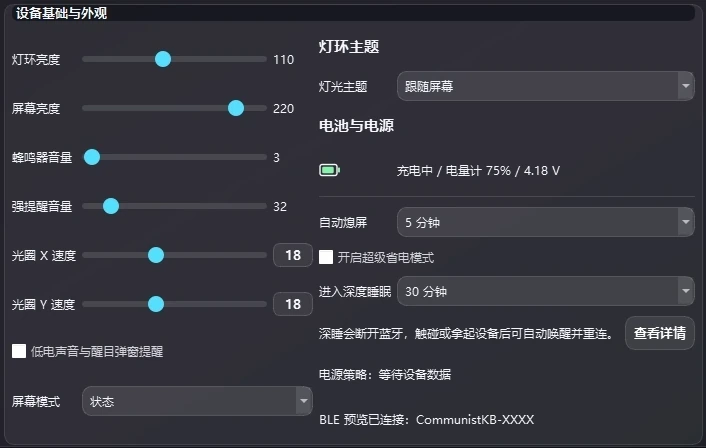
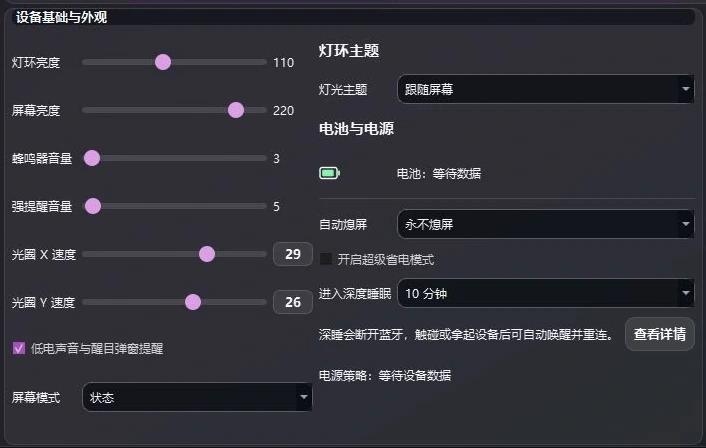
docs: refresh AutoClipboard interface screenshots

diff --git a/docs/en/software-interface-manual.md b/docs/en/software-interface-manual.md
@@ -3,11 +3,11 @@
 <!-- section:s001 -->
 # AutoClipboard software interface manual
 
-This manual explains the current AutoClipboard main window and the real **Device Settings / IMU Preview** window area by area. Every control is identified as software-only, hardware-changing, temporary, read-only, or firmware-related, so users can tell what will happen before they click it.
+This manual explains the current AutoClipboard main window, voice configuration, and **Device Settings / IMU Preview** window area by area. Every control is identified as software-only, hardware-changing, temporary, read-only, or firmware-related, so users can tell what will happen before they click it.
 
-The screenshots are real application screenshots. The Device Settings image was supplied from an actual connected-device session; the crops only add numbered outlines or isolate regions and do not redraw the UI.
+The screenshots are actual renders from the current AutoClipboard source, not generated UI mockups. To keep personal accounts, Agent sessions, Bluetooth suffixes, and serial-port details out of public documentation, the captures use isolated clean settings with real device services disabled. The crops only add numbered outlines or isolate regions; they do not redraw controls or pretend to validate physical hardware.
 
-> AutoClipboard version shown: `0.3.49`. Device values such as battery percentage, Profile name, COM port, Agent count, and Bluetooth suffix vary by computer and handle.
+> AutoClipboard version shown: `0.3.62`. Signed-out, BLE-disconnected, and empty-Agent states are intentional safe-demo states. Battery percentage, Profile name, COM port, Agent count, and Bluetooth suffix vary by computer and handle.
 
 <!-- section:s002 -->
 ## How to read the “changes” column
@@ -33,7 +33,7 @@ Changing a value in Device Settings is not always a harmless preview. Brightness
 | Number | Area | Primary role |
 | --- | --- | --- |
 | 1 | Device and Agent status | Shows Bluetooth, battery, Agent-to-ring synchronization, and the four quick actions. |
-| 2 | Clipboard and Typeless workspace | Receives text, automatically copies it, shows capture state, and exposes software settings. |
+| 2 | Clipboard and Typeless workspace | Receives text, automatically copies it, shows capture state, and exposes account, voice, and software settings. |
 | 3 | Agent dashboard | Summarizes Codex/Claude tasks and their current states. |
 
 The main window is mainly a software workspace. It does not rewrite handle configuration by itself. Hardware effects occur only when a specific action sends a signal or opens Device Settings.
@@ -48,15 +48,15 @@ The main window is mainly a software workspace. It does not rewrite handle confi
 | Item | What it does | Changes | Result |
 | --- | --- | --- | --- |
 | Title, subtitle, and `Waiting for input` | Identifies the application and current text-capture state. | **View only** | The status changes when Typeless capture starts, succeeds, retries, or fails. |
-| `BLE connected: CommunistKB-XXXX` | Shows the handle selected by the AutoClipboard BLE/GATT session. | **View only** | A complete `CommunistKB-` name plus the real four-character suffix confirms which handle the software is using. |
+| `BLE disconnected` / `BLE connected: CommunistKB-XXXX` | Shows whether the AutoClipboard BLE/GATT session is ready and which handle it selected. | **View only** | Once connected, the complete `CommunistKB-` name plus the real four-character suffix confirms which handle the software is using. |
 | Device and battery line | Summarizes Bluetooth keyboard readiness and estimated battery percentage. | **View only** | Helps distinguish a working HID keyboard link from the AutoClipboard device-data session. |
 | Agent and ring line | Shows the aggregated Agent state and the target ring animation. | **View only / software + hardware output** | For example, working tasks can produce the current-theme marquee effect on the handle. |
-| `Connect another host` | Opens the three-host instructions and then Windows Bluetooth settings. | **Software entry + hardware pairing** | The user must first select an `EMPTY` slot under `Settings > BLE Hosts` on the handle; it then opens a 120-second pairing window for the new computer. |
+| `Start pairing` | Opens pairing guidance and can continue to Windows Bluetooth settings. | **Software entry + hardware pairing** | Put the handle into `PAIR` first. For three-host pairing, select an `EMPTY` slot under `Settings > BLE Hosts` to open the 120-second pairing window. |
 | `Device Settings` | Opens the detailed configuration and IMU window. | **No change by opening it** | Hardware changes occur only after using controls inside that window. |
 | `Configure status light` | Installs or repairs the AutoClipboard portions of Codex `hooks.json` and Claude `settings.json`, with backup and confirmation. | **Software + hardware** | Agent lifecycle events can be collected locally and synchronized to the handle ring while AutoClipboard is running. |
 | `Test light effect` | Sends one selected Agent state to the handle. | **Temporary hardware session** | Tests idle breathing, working marquee, yellow attention/permission, red blocked, green completed, or off without changing the Agent task itself. |
 
-`Connect another host` does not invent or append the Bluetooth suffix. Pair the exact `CommunistKB-XXXX` name broadcast by the handle.
+`Start pairing` does not invent or append the Bluetooth suffix. Pair the exact `CommunistKB-XXXX` name broadcast by the handle.
 
 <!-- section:s005 -->
 ## 3. Main-window clipboard and Typeless area
@@ -72,6 +72,8 @@ The main window is mainly a software workspace. It does not rewrite handle confi
 | `Alt` / Typeless pulse panel | Shows whether the Right Alt trigger is idle, armed, captured, timed out, or unavailable. | **Software** | With global mode enabled on Windows, Right Alt arms one external Typeless capture. |
 | Character count | Shows the current editor length. | **View only** | Useful for confirming a long capture was complete. |
 | `Software Settings` | Opens local application preferences. | **Software**, except optional Agent completion output | See the detailed list below. |
+| `Account / Sign in` | Opens the ZKO account, sign-in, and entitlement entry point. | **Software / network entry** | Opening it does not upload audio or begin a purchase; later sign-in and entitlement actions remain explicit. |
+| `Voice` | Opens the free and premium voice configuration. | **Software**; the selected premium cloud tier also uses the network | Enables voice input, shortcut configuration, free system dictation, or an authorized premium cloud flow. |
 | `Clear` | Clears the editor content. | **Software** | Removes the visible buffer; it does not reset the handle or Bluetooth pairing. |
 
 <!-- section:s006 -->
@@ -87,6 +89,20 @@ The main window is mainly a software workspace. It does not rewrite handle confi
 | Model usage query | Stores the selected New API/CCSwitch query configuration locally and displays returned usage in the dashboard. Credentials remain on the current computer. |
 | Language | Selects Chinese or English UI. |
 | Software update | Downloads and installs a newer AutoClipboard application. This updates the desktop software, not handle firmware. |
+
+### Account and voice configuration
+
+<p align="center">
+  <img src="../assets/user-guide/autoclipboard-voice.webp" alt="AutoClipboard account and voice configuration" width="520">
+</p>
+
+| Item | What it does | Changes | Result |
+| --- | --- | --- | --- |
+| `Sign in / Account center` | Opens the ZKO account and entitlement flow. | **Software / network entry** | When signed out, it only shows the entry point; opening the window does not upload audio. |
+| `Enable voice input` | Enables or disables the voice shortcut. | **Software** | When disabled, the shortcut does not start voice input. |
+| Voice shortcut and “intercept shortcut keystroke” | Selects the trigger and whether that keystroke continues to the active application. | **Software** | Can prevent the trigger from producing an extra character or action in the target input field. |
+| Free tier | Requests Windows system dictation. | **Operating-system voice service** | Windows manages audio and dictated text; AutoClipboard does not record audio or read the system dictation transcript. |
+| Premium tier (activation code) | Uses activated account entitlement and short-lived cloud tokens. | **Software + network** | The cloud flow starts only after explicit selection and configuration; the free tier is never silently switched. |
 
 <!-- section:s007 -->
 ## 4. Agent dashboard

diff --git a/docs/zh-CN/software-interface-manual.md b/docs/zh-CN/software-interface-manual.md
@@ -3,11 +3,11 @@
 <!-- section:s001 -->
 # AutoClipboard 软件界面详细说明书
 
-这份说明书按照当前 AutoClipboard 的真实界面，逐块解释主窗口以及 **“设备设置 / IMU 预览”** 窗口。每一个控件都会明确说明：它是只查看状态、只修改电脑软件、会写入手柄硬件、只在本次连接中临时生效，还是涉及 Type-C 固件更新。
+这份说明书按照当前 AutoClipboard 的真实界面，逐块解释主窗口、语音配置以及 **“设备设置 / IMU 预览”** 窗口。每一个控件都会明确说明：它是只查看状态、只修改电脑软件、会写入手柄硬件、只在本次连接中临时生效，还是涉及 Type-C 固件更新。
 
-本文使用的都是实际软件截图。“设备设置”完整图来自真实设备连接界面；局部图只做编号标记和裁切，不会重绘、替换或伪造界面内容。
+本文使用的都是 AutoClipboard 当前源码实际渲染的截图，不是文生图界面。为避免把个人账户、Agent 会话、蓝牙后缀或串口信息写入公开文档，截图使用隔离的干净设置并禁用了真实设备服务；局部图只做编号标记和裁切，不会重绘控件或冒充实体设备验证。
 
-> 截图对应 AutoClipboard `0.3.49`。电量、Profile 名称、COM 端口、Agent 数量和蓝牙名称后缀会随用户设备变化。
+> 截图对应 AutoClipboard `0.3.62`。图中的未登录、BLE 未连接和空 Agent 状态是安全演示状态；实际电量、Profile 名称、COM 端口、Agent 数量和蓝牙名称后缀会随用户设备变化。
 
 <!-- section:s002 -->
 ## 先看懂“改动对象”标记
@@ -33,7 +33,7 @@
 | 编号 | 区域 | 主要作用 |
 | --- | --- | --- |
 | 1 | 设备与 Agent 状态区 | 显示蓝牙、电量、Agent 灯环同步情况，并提供 4 个快捷入口。 |
-| 2 | 剪贴板与 Typeless 工作区 | 接收文字、自动复制、显示捕获状态，并提供软件设置。 |
+| 2 | 剪贴板与 Typeless 工作区 | 接收文字、自动复制、显示捕获状态，并提供账户、语音和软件设置。 |
 | 3 | Agent 工作台 | 汇总 Codex、Claude 等任务及其当前状态。 |
 
 主窗口本身主要是电脑端工作区。仅仅打开主窗口不会重写手柄配置；只有点击会发送信号的功能，或者进入设备设置后调整硬件项目，才会影响手柄。
@@ -48,15 +48,15 @@
 | 界面项目 | 用途 | 改动对象 | 产生的效果 |
 | --- | --- | --- | --- |
 | 标题、副标题和“等待输入” | 标识当前软件，并显示文字捕获的工作状态。 | **仅查看** | Typeless 开始捕获、成功、重试或失败时，这里的状态会变化。 |
-| `BLE 蓝牙已连接：CommunistKB-XXXX` | 显示 AutoClipboard 当前 BLE/GATT 会话连接到哪一把手柄。 | **仅查看** | 完整的 `CommunistKB-` 加真实 4 位后缀，可用于确认软件连接的是正确实体设备。 |
+| `BLE 蓝牙未连接` / `BLE 蓝牙已连接：CommunistKB-XXXX` | 显示 AutoClipboard BLE/GATT 会话当前是否就绪，以及连接到哪一把手柄。 | **仅查看** | 连接后会显示完整的 `CommunistKB-` 加真实 4 位后缀，可用于确认软件连接的是正确实体设备。 |
 | 设备与电量提示 | 汇总蓝牙键盘是否可用，以及估算电量。 | **仅查看** | 帮助区分“系统已经能收到键盘宏”和“AutoClipboard 设备数据会话是否正常”。 |
 | Agent 与灯环提示 | 显示聚合后的 Agent 状态，以及准备发送到灯环的效果。 | **仅查看 / 软件 + 硬件输出** | 例如存在工作中任务时，手柄可以显示当前主题色跑马灯。 |
-| `连接其他主机` | 打开三主机槽位说明，并可继续进入 Windows 蓝牙设置。 | **软件入口 + 硬件配对** | 必须先在手柄 `Settings > BLE Hosts` 中选择 `EMPTY` 槽位，开启 120 秒配对窗口，新电脑才能发现手柄。 |
+| `开始配对` | 打开配对说明，并可继续进入 Windows 蓝牙设置。 | **软件入口 + 硬件配对** | 先让手柄进入 `PAIR` 状态；使用三主机功能时，应在 `Settings > BLE Hosts` 中选择 `EMPTY` 槽位并开启 120 秒配对窗口。 |
 | `设备设置` | 打开下文的完整设备配置与 IMU 窗口。 | **仅打开不修改** | 真正的硬件改动发生在设备设置窗口内部。 |
 | `配置状态灯` | 安装或修复 Codex `hooks.json` 与 Claude `settings.json` 中属于 AutoClipboard 的 Hook；执行前会提示并备份。 | **软件 + 硬件** | AutoClipboard 运行时可收集 Agent 生命周期，并把状态同步到手柄灯环。 |
 | `测试灯效` | 向手柄临时发送一个选定的 Agent 状态。 | **硬件临时会话** | 可分别测试主题色慢呼吸、主题色跑马灯、黄色提醒、黄色快闪、红色告警、绿色完成呼吸和关闭；不会改变真实 Agent 任务。 |
 
-`连接其他主机` 不会替用户生成或追加蓝牙后缀。系统中必须选择手柄实际广播的完整 `CommunistKB-XXXX` 名称。
+`开始配对` 不会替用户生成或追加蓝牙后缀。系统中必须选择手柄实际广播的完整 `CommunistKB-XXXX` 名称。
 
 <!-- section:s005 -->
 ## 3. 主窗口：剪贴板与 Typeless 工作区
@@ -72,6 +72,8 @@
 | `Alt` 与 Typeless 脉冲面板 | 显示右 Alt 触发目前是等待、已武装、已捕获、超时还是不可用。 | **软件** | Windows 开启全局模式后，按一次右 Alt 会武装一次外部 Typeless 捕获。 |
 | 字符数 | 显示当前编辑区文字长度。 | **仅查看** | 可用于确认一段长文本是否完整进入。 |
 | `软件设置` | 打开当前电脑上的 AutoClipboard 偏好设置。 | **软件**；只有强提醒可进一步驱动硬件 | 具体项目见下表。 |
+| `账户 / 登录` | 打开 ZKO 账户、登录和权益入口。 | **软件 / 网络入口** | 打开入口本身不会上传音频或开始付费操作；后续登录和权益操作由用户明确执行。 |
+| `语音` | 打开免费版与高级版语音配置。 | **软件**；选择高级云端档时涉及网络 | 可以启用语音输入、设置快捷键、选择免费系统听写或已授权的高级云端流程。 |
 | `清空` | 清空当前编辑区。 | **软件** | 只删除可见文字，不会重置手柄，也不会清除蓝牙配对。 |
 
 <!-- section:s006 -->
@@ -87,6 +89,20 @@
 | 模型用量查询 | 在当前电脑保存 New API/CCSwitch 查询方式，并把返回的用量显示到工作台。凭据只保存在本机。 |
 | 系统语言 | 选择中文或 English 界面。 |
 | 软件更新 | 下载并安装新版 AutoClipboard，只更新桌面软件，不会更新手柄固件。 |
+
+### 账户与语音配置
+
+<p align="center">
+  <img src="../assets/user-guide/autoclipboard-voice.webp" alt="AutoClipboard 账户与语音配置" width="520">
+</p>
+
+| 界面项目 | 用途 | 改动对象 | 产生的效果 |
+| --- | --- | --- | --- |
+| `登录 / 账户中心` | 进入 ZKO 账户与权益流程。 | **软件 / 网络入口** | 未登录时只显示入口；不会因为打开窗口就上传音频。 |
+| `启用语音输入` | 打开或关闭语音快捷键功能。 | **软件** | 关闭时快捷键不会开始语音输入。 |
+| 语音快捷键与“拦截快捷键按键” | 选择触发组合，并决定是否阻止该按键继续传给当前应用。 | **软件** | 可以避免触发键在目标输入框中产生额外字符或动作。 |
+| 免费版 | 请求 Windows 系统语音输入。 | **操作系统语音服务** | 音频和听写文字由 Windows 管理；AutoClipboard 不录音、不读取系统听写文本。 |
+| 高级版（激活码） | 使用已激活的账户权益和短期云端令牌。 | **软件 + 网络** | 只有用户明确选择并完成配置后才进入云端语音流程；不会从免费版静默切换。 |
 
 <!-- section:s007 -->
 ## 4. Agent 工作台

diff --git a/docs/en/user-guide.md b/docs/en/user-guide.md
@@ -297,7 +297,18 @@ Agent state examples include idle, working, attention, permission, blocked, done
   <img src="../assets/user-guide/autoclipboard-main.webp" alt="AutoClipboard main window" width="900">
 </p>
 
-The main window shows the Bluetooth device name, connection summary, battery information, Agent state, Typeless capture status, and shortcuts to device settings or light tests.
+The main window shows the Bluetooth device name, connection summary, battery information, Agent state, and Typeless capture status. It also provides pairing, device-settings, status-light, light-test, account, voice, software-settings, and clear actions.
+
+### Account and voice input
+
+<p align="center">
+  <img src="../assets/user-guide/autoclipboard-voice.webp" alt="AutoClipboard account and voice configuration" width="520">
+</p>
+
+- `Account / Sign in` opens the ZKO account and entitlement flow. Opening it does not start an audio upload or a purchase.
+- The free voice tier requests Windows system dictation. The operating system manages audio and dictated text; AutoClipboard does not record audio or read the system dictation transcript.
+- The premium tier uses an activation code, account entitlement, and short-lived cloud tokens. Its cloud voice flow begins only after the user explicitly selects and configures it; the free tier is never silently changed into cloud upload.
+- The voice shortcut and whether its trigger keystroke is intercepted can be configured independently. The signed-out and voice-disabled state in the screenshot comes from the clean documentation profile.
 
 <!-- section:s031 -->
 ### Device settings
@@ -314,7 +325,7 @@ The device settings window can provide:
 - IMU three-dimensional preview, calibration, recording, and presenter Halo controls.
 - Type-C device selection, serial diagnostics, Bluetooth repair entry points, and firmware maintenance.
 
-The screenshots show the current real interface. Read the [AutoClipboard software interface manual](software-interface-manual.md) for numbered crops, every visible area, software-versus-hardware classification, and the result of each action.
+These are real renders from the current AutoClipboard `0.3.62` source, not generated UI mockups. The capture used isolated clean settings with real device services disabled, so it proves the software layout and visible controls only; it is not evidence of a physical-handle connection or hardware effect. Read the [AutoClipboard software interface manual](software-interface-manual.md) for numbered crops, every visible area, software-versus-hardware classification, and the result of each action.
 
 <!-- section:s032 -->
 ### Understand the two Bluetooth layers

diff --git a/README.en.md b/README.en.md
@@ -154,17 +154,21 @@ The screen also shows the current Profile, battery, time, device state, and the 
 <!-- section:s013 -->
 ## AutoClipboard
 
-AutoClipboard is the desktop companion application. It can display the active Bluetooth device, configure Profile names and icons, record macros, adjust the screen, light ring and buzzer, preview IMU orientation, configure the presenter Halo, and perform controlled firmware updates.
+AutoClipboard is the desktop companion application. It can display the active Bluetooth device, configure Profile names and icons, record macros, adjust the screen, light ring and buzzer, preview IMU orientation, configure the presenter Halo, provide account and free/premium voice-input entry points, and perform controlled firmware updates.
 
 <p align="center">
   <img src="docs/assets/user-guide/autoclipboard-main.webp" alt="AutoClipboard main window" width="820">
 </p>
 
 <p align="center">
+  <img src="docs/assets/user-guide/autoclipboard-voice.webp" alt="AutoClipboard voice configuration" width="520">
+</p>
+
+<p align="center">
   <img src="docs/assets/user-guide/autoclipboard-settings.webp" alt="AutoClipboard device settings" width="900">
 </p>
 
-The screenshots show the current real interface. For numbered region diagrams, control-by-control effects, and a clear distinction between software-only and hardware-changing settings, read the [AutoClipboard software interface manual](docs/en/software-interface-manual.md). Keep AutoClipboard running in the background when using Agent status synchronization, Profile quick launch, IMU preview, or the presenter Halo.
+These are real renders from the current AutoClipboard `0.3.62` source, not generated UI mockups. They were captured with isolated clean settings and contain no personal account, Agent-session, or physical-handle identifiers, so signed-out and BLE-disconnected states are expected. For numbered region diagrams, control-by-control effects, and a clear distinction between software-only and hardware-changing settings, read the [AutoClipboard software interface manual](docs/en/software-interface-manual.md). Keep AutoClipboard running in the background when using Agent status synchronization, Profile quick launch, IMU preview, voice input, or the presenter Halo.
 
 <!-- section:s014 -->
 ## Downloads

diff --git a/README.md b/README.md
@@ -154,17 +154,21 @@ CommunistKB-XXXX
 <!-- section:s013 -->
 ## AutoClipboard 桌面软件
 
-AutoClipboard 是手柄的配套桌面软件，可以显示当前连接的蓝牙设备，配置 Profile 名称和图标，录制宏按键，调整小屏、灯环和蜂鸣器，查看 IMU 三维姿态，配置演讲光圈，并在受控流程中更新固件。
+AutoClipboard 是手柄的配套桌面软件，可以显示当前连接的蓝牙设备，配置 Profile 名称和图标，录制宏按键，调整小屏、灯环和蜂鸣器，查看 IMU 三维姿态，配置演讲光圈，并提供账户入口、免费/高级语音输入和受控固件更新流程。
 
 <p align="center">
   <img src="docs/assets/user-guide/autoclipboard-main.webp" alt="AutoClipboard 主界面" width="820">
 </p>
 
 <p align="center">
+  <img src="docs/assets/user-guide/autoclipboard-voice.webp" alt="AutoClipboard 语音配置界面" width="520">
+</p>
+
+<p align="center">
   <img src="docs/assets/user-guide/autoclipboard-settings.webp" alt="AutoClipboard 设备设置界面" width="900">
 </p>
 
-这里展示的是当前真实界面。需要查看编号分区图、逐个控件的作用，以及“只改软件”和“会写入硬件”的明确区别，请阅读 [AutoClipboard 软件界面详细说明书](docs/zh-CN/software-interface-manual.md)。使用 Agent 状态同步、Profile 快开、IMU 预览或演讲光圈时，请让 AutoClipboard 保持后台运行。
+这里展示的是 AutoClipboard `0.3.62` 当前源码渲染出的真实界面，不是文生图界面。截图使用隔离的干净设置，未包含个人账户、Agent 会话或实体手柄标识，因此会显示未登录、BLE 未连接等安全演示状态。需要查看编号分区图、逐个控件的作用，以及“只改软件”和“会写入硬件”的明确区别，请阅读 [AutoClipboard 软件界面详细说明书](docs/zh-CN/software-interface-manual.md)。使用 Agent 状态同步、Profile 快开、IMU 预览、语音输入或演讲光圈时，请让 AutoClipboard 保持后台运行。
 
 <!-- section:s014 -->
 ## 下载文件
